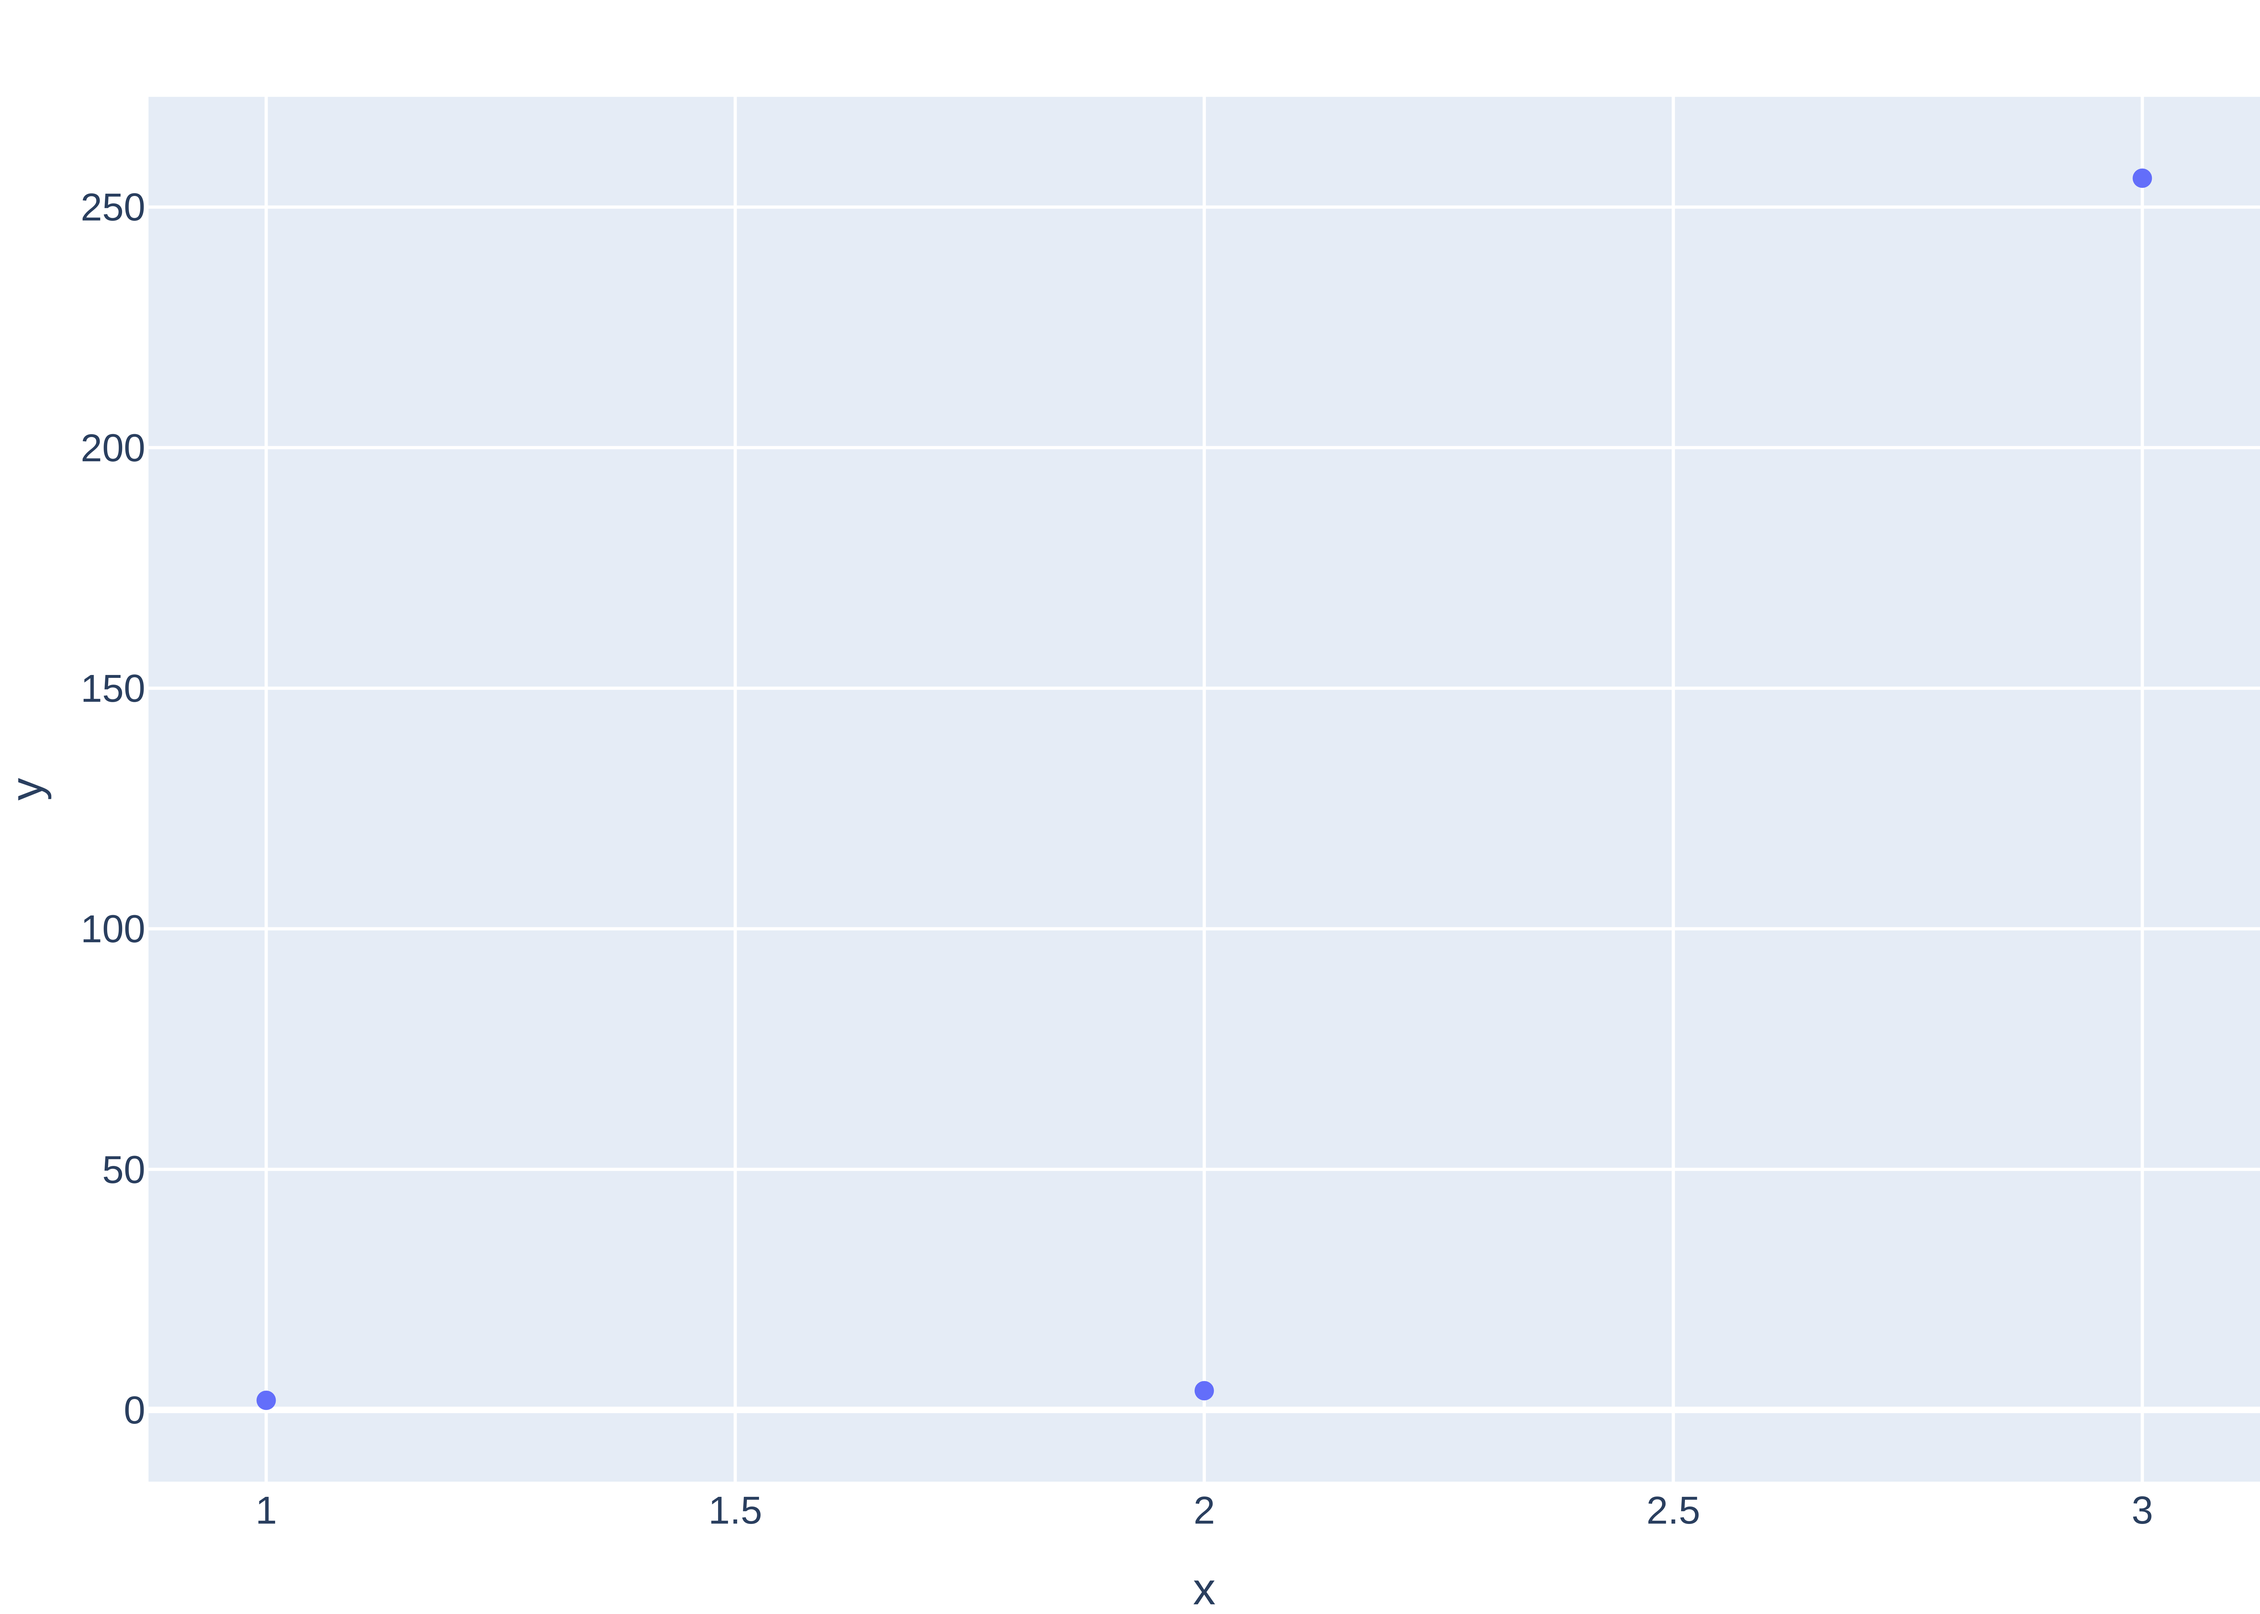
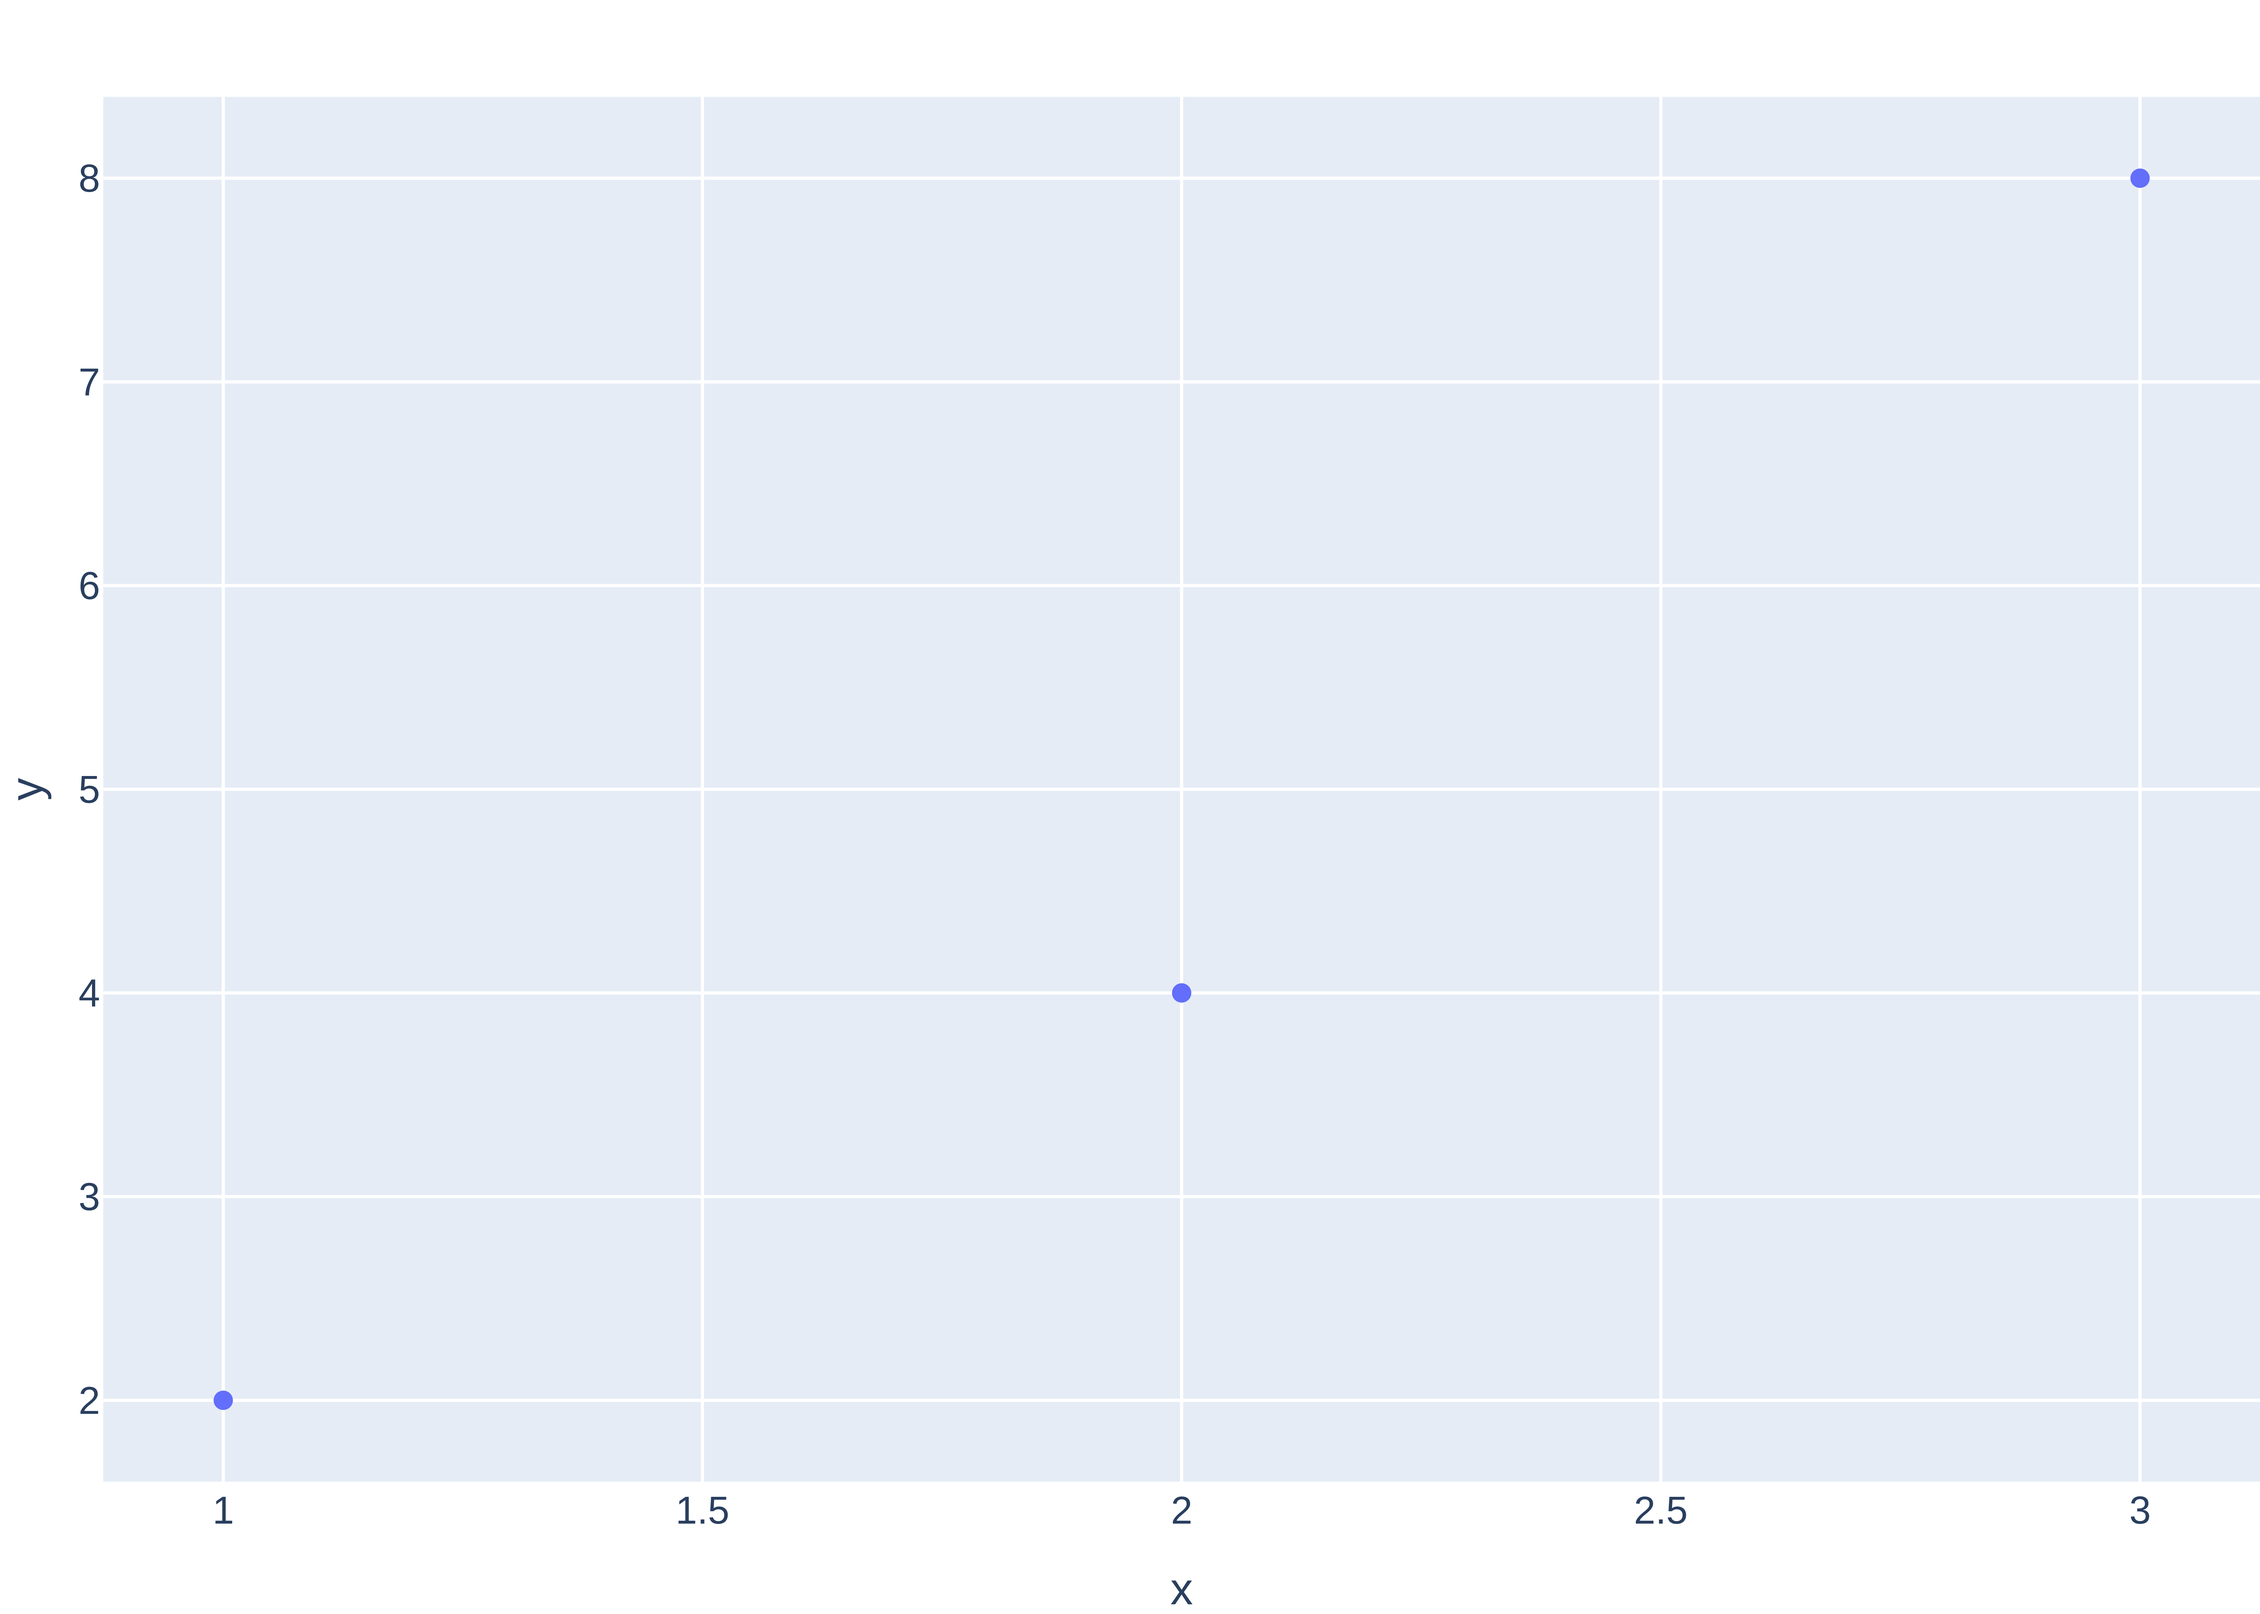
Built site for gh-pages

diff --git a/index.html b/index.html
@@ -205,7 +205,7 @@ window.Quarto = {
 
 <div class="quarto-listing quarto-listing-container-default" id="listing-listing">
 <div class="list quarto-listing-default">
-<div class="quarto-post image-right" data-index="0" data-categories="notebook" data-listing-date-sort="1719100800000" data-listing-file-modified-sort="1719133319397" data-listing-date-modified-sort="NaN" data-listing-reading-time-sort="1" data-listing-word-count-sort="32">
+<div class="quarto-post image-right" data-index="0" data-categories="notebook" data-listing-date-sort="1719100800000" data-listing-file-modified-sort="1719133395371" data-listing-date-modified-sort="NaN" data-listing-reading-time-sort="1" data-listing-word-count-sort="31">
 <div class="thumbnail">
 <p><a href="./posts/post-by-notebook-run-on-gha/post-by-notebook.html" class="no-external"></a></p><a href="./posts/post-by-notebook-run-on-gha/post-by-notebook.html" class="no-external">
 <p class="card-img-top"><img src="posts/post-by-notebook-run-on-gha/post-by-notebook_files/figure-html/cell-2-output-1.png"  class="thumbnail-image card-img"/></p>
@@ -224,7 +224,7 @@ notebook
 </div>
 </div>
 <div class="listing-description">
-<a href="./posts/post-by-notebook-run-on-gha/post-by-notebook.html" class="no-external">This article is written and edited as a Jupyter notebook with a stale code cell. The original frozen cell output shows a linear graph, but the current must code produces an…</a>
+<a href="./posts/post-by-notebook-run-on-gha/post-by-notebook.html" class="no-external">This article is written and edited as a Jupyter notebook with a stale code cell. The original frozen cell output shows a linear graph, but the current code produces an…</a>
 </div>
 </div>
 <div class="metadata">
@@ -238,7 +238,7 @@ y.hori
 </a>
 </div>
 </div>
-<div class="quarto-post image-right" data-index="1" data-categories="notebook" data-listing-date-sort="1719100800000" data-listing-file-modified-sort="1719133154479" data-listing-date-modified-sort="NaN" data-listing-reading-time-sort="1" data-listing-word-count-sort="13">
+<div class="quarto-post image-right" data-index="1" data-categories="notebook" data-listing-date-sort="1719100800000" data-listing-file-modified-sort="1719133229755" data-listing-date-modified-sort="NaN" data-listing-reading-time-sort="1" data-listing-word-count-sort="13">
 <div class="thumbnail">
 <p><a href="./posts/post-by-notebook/post-by-notebook.html" class="no-external"></a></p><a href="./posts/post-by-notebook/post-by-notebook.html" class="no-external">
 <p class="card-img-top"><img src="posts/post-by-notebook/post-by-notebook_files/figure-html/cell-2-output-1.png"  class="thumbnail-image card-img"/></p>
@@ -271,7 +271,7 @@ y.hori
 </a>
 </div>
 </div>
-<div class="quarto-post image-right" data-index="2" data-categories="news,code,analysis" data-listing-date-sort="1719014400000" data-listing-file-modified-sort="1719133154479" data-listing-date-modified-sort="NaN" data-listing-reading-time-sort="1" data-listing-word-count-sort="7">
+<div class="quarto-post image-right" data-index="2" data-categories="news,code,analysis" data-listing-date-sort="1719014400000" data-listing-file-modified-sort="1719133229755" data-listing-date-modified-sort="NaN" data-listing-reading-time-sort="1" data-listing-word-count-sort="7">
 <div class="thumbnail">
 <p><a href="./posts/post-with-code/index.html" class="no-external"></a></p><a href="./posts/post-with-code/index.html" class="no-external">
 <p><img src="./posts/post-with-code/image.jpg" class="thumbnail-image"></p>
@@ -310,7 +310,7 @@ Harlow Malloc
 </a>
 </div>
 </div>
-<div class="quarto-post image-right" data-index="3" data-categories="news" data-listing-date-sort="1718755200000" data-listing-file-modified-sort="1719133154479" data-listing-date-modified-sort="NaN" data-listing-reading-time-sort="1" data-listing-word-count-sort="32">
+<div class="quarto-post image-right" data-index="3" data-categories="news" data-listing-date-sort="1718755200000" data-listing-file-modified-sort="1719133229755" data-listing-date-modified-sort="NaN" data-listing-reading-time-sort="1" data-listing-word-count-sort="32">
 <div class="thumbnail">
 <p><a href="./posts/welcome/index.html" class="no-external"></a></p><a href="./posts/welcome/index.html" class="no-external">
 <p class="card-img-top"><img src="posts/welcome/thumbnail.jpg"  class="thumbnail-image card-img"/></p>

diff --git a/posts/post-by-notebook-run-on-gha/post-by-notebook.html b/posts/post-by-notebook-run-on-gha/post-by-notebook.html
@@ -188,7 +188,7 @@ pre > code.sourceCode > span > a:first-child::before { text-decoration: underlin
 
 
 
-<p>This article is written and edited as a Jupyter notebook with a stale code cell. The original frozen cell output shows a linear graph, but the current must code produces an exponential curve.</p>
+<p>This article is written and edited as a Jupyter notebook with a stale code cell. The original frozen cell output shows a linear graph, but the current code produces an exponential curve.</p>
 <div id="cell-2" class="cell" data-execution_count="1">
 <div class="sourceCode cell-code" id="cb1"><pre class="sourceCode python code-with-copy"><code class="sourceCode python"><span id="cb1-1"><a href="#cb1-1" aria-hidden="true" tabindex="-1"></a><span class="im">import</span> plotly.express <span class="im">as</span> px</span>
 <span id="cb1-2"><a href="#cb1-2" aria-hidden="true" tabindex="-1"></a><span class="im">import</span> polars <span class="im">as</span> pl</span>
@@ -198,7 +198,7 @@ pre > code.sourceCode > span > a:first-child::before { text-decoration: underlin
 <span id="cb1-6"><a href="#cb1-6" aria-hidden="true" tabindex="-1"></a>data <span class="op">=</span> pl.DataFrame(</span>
 <span id="cb1-7"><a href="#cb1-7" aria-hidden="true" tabindex="-1"></a>    {</span>
 <span id="cb1-8"><a href="#cb1-8" aria-hidden="true" tabindex="-1"></a>        <span class="st">"x"</span>: [<span class="dv">1</span>, <span class="dv">2</span>, <span class="dv">3</span>],</span>
-<span id="cb1-9"><a href="#cb1-9" aria-hidden="true" tabindex="-1"></a>        <span class="st">"y"</span>: [<span class="dv">2</span>, <span class="dv">2</span><span class="op">**</span><span class="dv">2</span>, <span class="dv">2</span><span class="op">**</span><span class="dv">8</span>],</span>
+<span id="cb1-9"><a href="#cb1-9" aria-hidden="true" tabindex="-1"></a>        <span class="st">"y"</span>: [<span class="dv">2</span><span class="op">**</span><span class="dv">1</span>, <span class="dv">2</span><span class="op">**</span><span class="dv">2</span>, <span class="dv">2</span><span class="op">**</span><span class="dv">3</span>],</span>
 <span id="cb1-10"><a href="#cb1-10" aria-hidden="true" tabindex="-1"></a>    }</span>
 <span id="cb1-11"><a href="#cb1-11" aria-hidden="true" tabindex="-1"></a>)</span>
 <span id="cb1-12"><a href="#cb1-12" aria-hidden="true" tabindex="-1"></a>fig <span class="op">=</span> px.scatter(data_frame<span class="op">=</span>data, x<span class="op">=</span><span class="st">"x"</span>, y<span class="op">=</span><span class="st">"y"</span>)</span>
